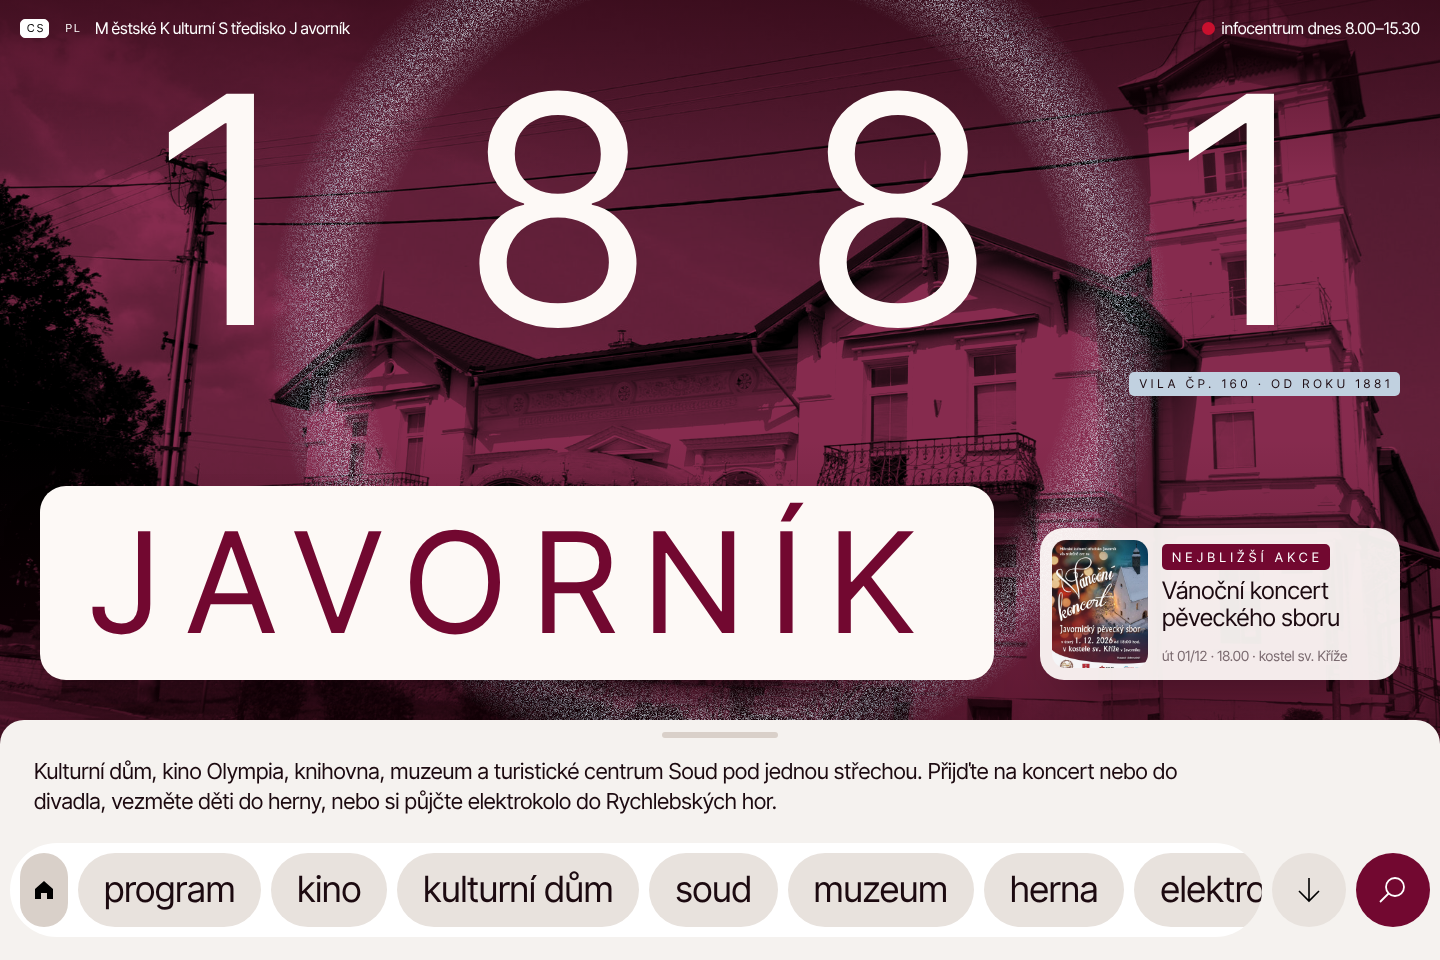
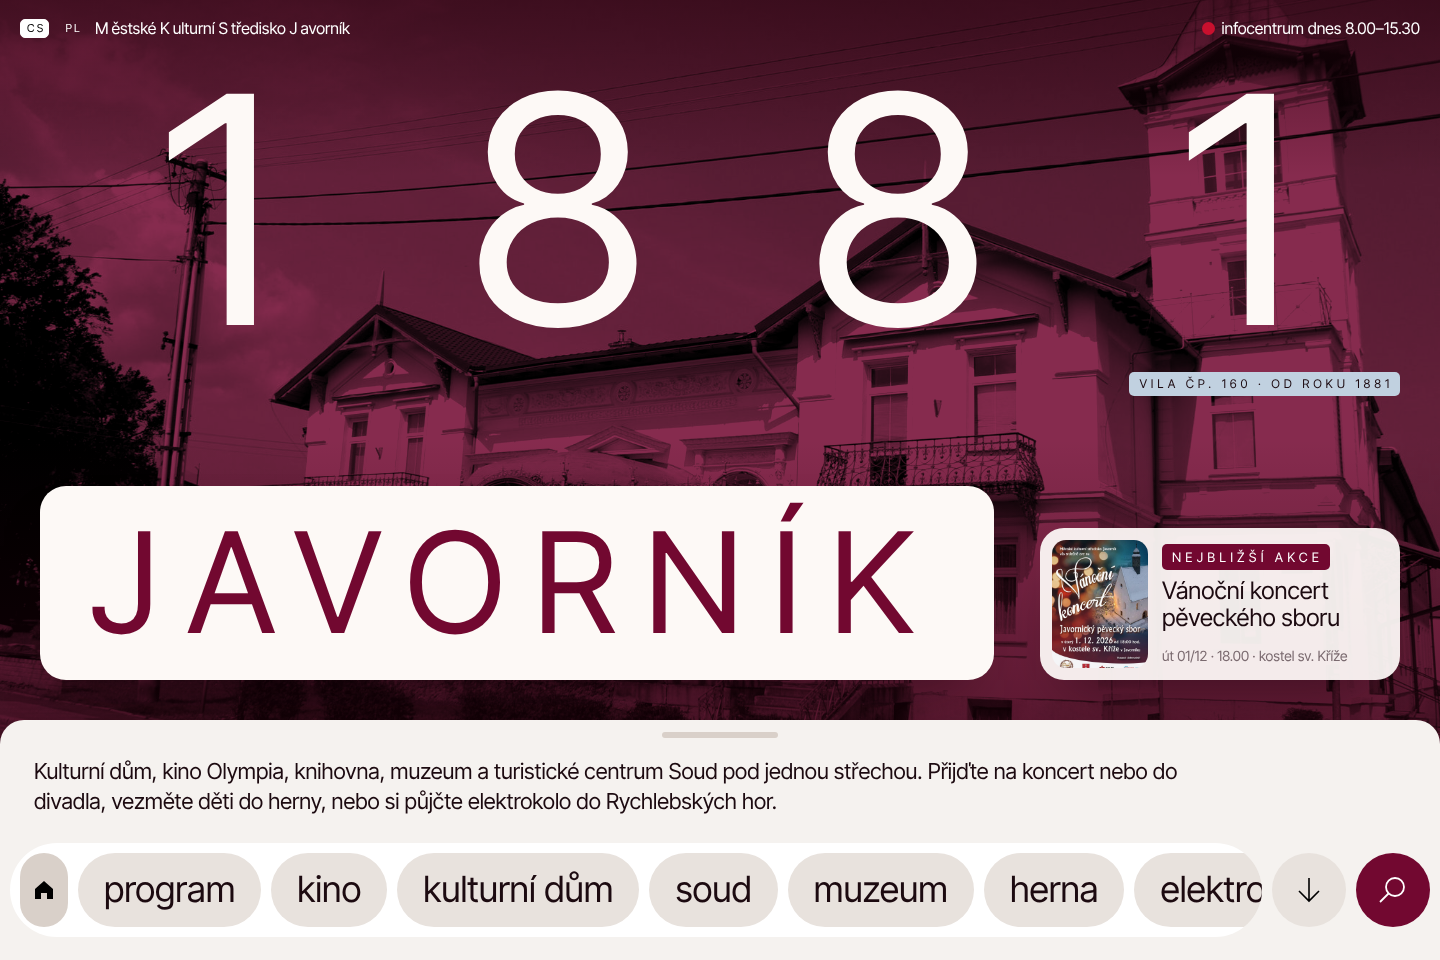
Remove grain ring from hero
Claude-Session: https://claude.ai/code/session_01KsyqZVxg73J7jhJxRf7Exo

Changed region(s): [[0.625, 0.0, 0.8125, 0.6875], [0.1875, 0.0, 0.375, 0.5312], [0.3438, 0.6875, 0.6562, 0.75]]

diff --git a/navrhy/kulturnidum-javornik/index.html b/navrhy/kulturnidum-javornik/index.html
@@ -50,7 +50,6 @@ svg{display:block}
 .hero .tint{position:absolute;inset:0;z-index:1;background:#720830;mix-blend-mode:multiply;opacity:.86}
 .hero .shade{position:absolute;inset:0;z-index:1;background:linear-gradient(180deg,rgba(42,3,15,.55) 0%,rgba(42,3,15,0) 22%,rgba(42,3,15,0) 55%,rgba(42,3,15,.55) 100%)}
 .hero .bar{position:absolute;top:0;left:0;right:0;display:flex;justify-content:space-between;align-items:center;padding:18px 20px;z-index:5;color:#fff;font-size:16px}
-.ring{position:absolute;z-index:2;left:50%;top:50%;width:900px;height:900px;transform:translate(-50%,-58%);opacity:.95}
 .digits{position:absolute;z-index:3;top:86px;left:40px;right:40px;display:grid;grid-template-columns:repeat(4,1fr);justify-items:center;color:var(--cream);font-size:318px;line-height:.78;letter-spacing:-.05em}
 .digits-cap{position:absolute;z-index:4;top:372px;right:40px;display:flex;flex-direction:column;align-items:flex-end;gap:6px}
 .digits-cap .t{height:24px;font-size:12px}
@@ -183,22 +182,6 @@ footer .legal .g{color:#e2b9c6}
       <span><b>M</b>ěstské <b>K</b>ulturní <b>S</b>tředisko <b>J</b>avorník</span></div>
     <div><span class="dot"></span>infocentrum dnes 8.00–15.30</div>
   </div>
-  <svg class="ring" viewBox="0 0 900 900" aria-hidden="true">
-    <defs>
-      <filter id="grain" x="-10%" y="-10%" width="120%" height="120%">
-        <feTurbulence type="fractalNoise" baseFrequency="2.2" numOctaves="1" seed="7" result="n"/>
-        <feColorMatrix in="n" type="matrix" values="0 0 0 0 0  0 0 0 0 0  0 0 0 0 0  0 0 0 -2.4 1.45" result="m"/>
-        <feComposite in="SourceGraphic" in2="m" operator="in"/>
-      </filter>
-      <radialGradient id="rg" cx="50%" cy="50%" r="50%">
-        <stop offset="0.78" stop-color="#d6e1eb" stop-opacity="0"/>
-        <stop offset="0.87" stop-color="#d6e1eb" stop-opacity="1"/>
-        <stop offset="0.91" stop-color="#c1d1e0" stop-opacity="1"/>
-        <stop offset="1" stop-color="#c1d1e0" stop-opacity="0"/>
-      </radialGradient>
-    </defs>
-    <circle cx="450" cy="450" r="450" fill="url(#rg)" filter="url(#grain)"/>
-  </svg>
   <div class="digits" aria-label="1881"><span>1</span><span>8</span><span>8</span><span>1</span></div>
   <div class="digits-cap"><span class="t g">vila čp. 160 · od roku 1881</span></div>
   <div class="place">JAVORNÍK</div>
